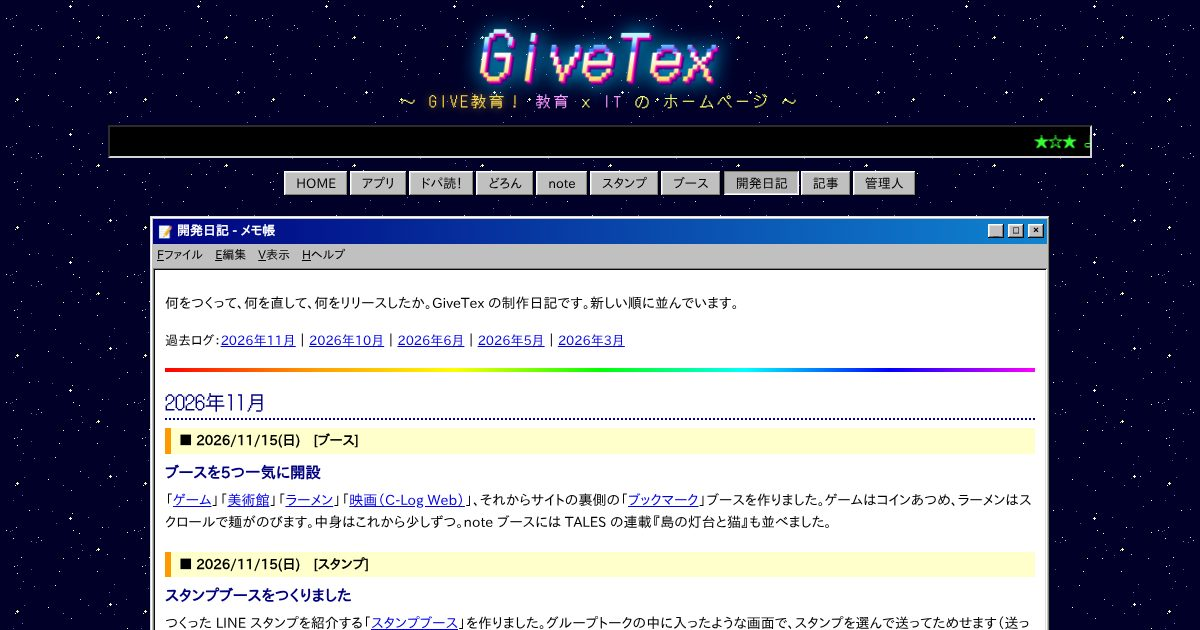
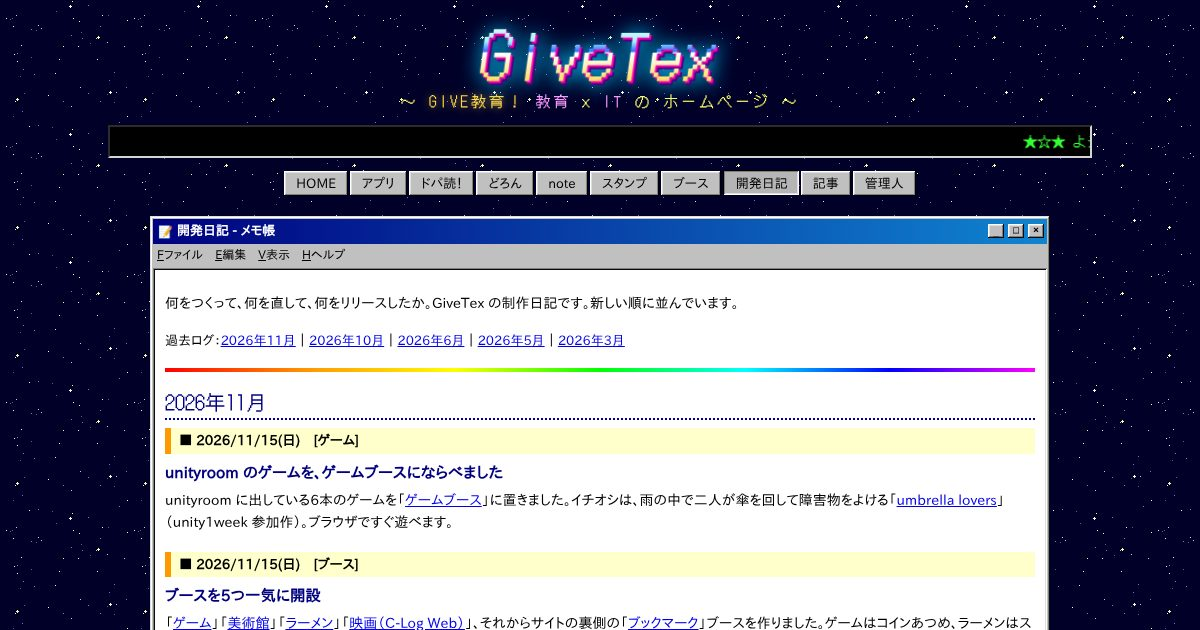
ゲームブースに unityroom の6作品、ホームにイチオシ「umbrella lovers」
- game/game-data.js に unityroom の作品（画像は assets/ext/unityroom に保存）
- pick: true の作品をゲームブースの先頭に大きく、ホームに画像つきで紹介
- localize_images.py が unityroom の画像にも対応
- 日記・What's New に追加

Claude-Session: https://claude.ai/code/session_01W8D3HJ1tr1BMzj6E8dktQx

diff --git a/index.html b/index.html
@@ -62,9 +62,16 @@ document.write(rGreeting());
 <p class="r-small r-center">最終更新日：2026年11月15日</p>
 </div>
 </div><div class="win ">
+<div class="win-t"><span class="ico">🎮</span><span class="ttl">★イチオシ ゲーム★ - umbrella lovers</span><button class="bt" type="button" onclick="return rWin(this)" aria-label="たたむ">_</button><span class="bt" aria-hidden="true">□</span><span class="bt" aria-hidden="true">×</span></div>
+<div class="win-b ">
+<div class="r-pick"><a class="r-pick-img" href="https://unityroom.com/games/umbrella_lovers" target="_blank" rel="noopener"><img loading="lazy" decoding="async" src="/assets/ext/unityroom/590b0dffe3826139.webp" width="240" height="240" alt="umbrella lovers のタイトル画像"></a>
+<div class="r-pick-tx"><p class="r-pick-new"><blink>NEW!</blink> <b>PICK UP GAME</b></p><h3>umbrella lovers</h3><p>雨の日のドキドキ！ 二人で傘を回して、空から降ってくる障害物をよけまくる横スクロール回避アクション。10000点でクリア、20000点で特別ムービー。</p><p class="r-small">unityroom（ブラウザで遊べる・パソコン推奨）／ 2025年 #unity1week</p>
+<p><a class="r-btn r-btn-hot" href="https://unityroom.com/games/umbrella_lovers" target="_blank" rel="noopener">▶ unityroom で遊ぶ</a> <a class="r-btn" href="/game/">ゲームブースへ &gt;&gt;</a></p></div></div>
+</div>
+</div><div class="win ">
 <div class="win-t"><span class="ico">📢</span><span class="ttl">What's New!! - 更新履歴</span><button class="bt" type="button" onclick="return rWin(this)" aria-label="たたむ">_</button><span class="bt" aria-hidden="true">□</span><span class="bt" aria-hidden="true">×</span></div>
 <div class="win-b ">
-<table class="r-tbl" summary="更新履歴"><tr><th>日付</th><th>更新内容</th></tr><tr><td class="date">2026/11/15</td><td>ゲーム・美術館・ラーメン・映画・ブックマークの<a href="/#booths">5ブース</a>を開設 <img loading="lazy" decoding="async" src="/assets/retro/new.gif" width="30" height="13" alt="NEW!"></td></tr><tr><td class="date">2026/11/15</td><td><a href="/stamp/">スタンプブース</a>をつくりました <img loading="lazy" decoding="async" src="/assets/retro/new.gif" width="30" height="13" alt="NEW!"></td></tr><tr><td class="date">2026/11/15</td><td><a href="/note/">note ブース</a>に過去の記事349本を移植しました <img loading="lazy" decoding="async" src="/assets/retro/new.gif" width="30" height="13" alt="NEW!"></td></tr><tr><td class="date">2026/11/15</td><td><a href="/note/">note ブース</a>をはじめました（NingentteWinner の創作） </td></tr><tr><td class="date">2026/11/15</td><td>どろん：Cサークルの新企画「<a href="/doron/#c-circle">十人奇談</a>」の素材を公開 <img loading="lazy" decoding="async" src="/assets/retro/new.gif" width="30" height="13" alt="NEW!"></td></tr><tr><td class="date">2026/11/15</td><td>Kindle本「<a href="/books/">ドパ読！</a>」96冊を書庫に／オカルトブース「<a href="/doron/">どろん</a>」オープン </td></tr><tr><td class="date">2026/11/13</td><td>「教育 × IT」の看板でサイトをリニューアル </td></tr><tr><td class="date">2026/11/06</td><td>「<a href="/apps/aws-saa-dojo/">AWSTUDY SAA 設計道場</a>」のページを公開 </td></tr><tr><td class="date">2026/11/05</td><td>ミニゲーム集「<a href="/apps/minigamer/">MiniGamer</a>」のページを追加 </td></tr></table><p class="r-small">→ これまでの更新は <a href="/diary/">開発日記</a> へ</p>
+<table class="r-tbl" summary="更新履歴"><tr><th>日付</th><th>更新内容</th></tr><tr><td class="date">2026/11/15</td><td><a href="/game/">ゲームブース</a>に unityroom のゲーム6本！ イチオシは「umbrella lovers」 <img loading="lazy" decoding="async" src="/assets/retro/new.gif" width="30" height="13" alt="NEW!"></td></tr><tr><td class="date">2026/11/15</td><td>ゲーム・美術館・ラーメン・映画・ブックマークの<a href="/#booths">5ブース</a>を開設 <img loading="lazy" decoding="async" src="/assets/retro/new.gif" width="30" height="13" alt="NEW!"></td></tr><tr><td class="date">2026/11/15</td><td><a href="/stamp/">スタンプブース</a>をつくりました <img loading="lazy" decoding="async" src="/assets/retro/new.gif" width="30" height="13" alt="NEW!"></td></tr><tr><td class="date">2026/11/15</td><td><a href="/note/">note ブース</a>に過去の記事349本を移植しました <img loading="lazy" decoding="async" src="/assets/retro/new.gif" width="30" height="13" alt="NEW!"></td></tr><tr><td class="date">2026/11/15</td><td><a href="/note/">note ブース</a>をはじめました（NingentteWinner の創作） </td></tr><tr><td class="date">2026/11/15</td><td>どろん：Cサークルの新企画「<a href="/doron/#c-circle">十人奇談</a>」の素材を公開 <img loading="lazy" decoding="async" src="/assets/retro/new.gif" width="30" height="13" alt="NEW!"></td></tr><tr><td class="date">2026/11/15</td><td>Kindle本「<a href="/books/">ドパ読！</a>」96冊を書庫に／オカルトブース「<a href="/doron/">どろん</a>」オープン </td></tr><tr><td class="date">2026/11/13</td><td>「教育 × IT」の看板でサイトをリニューアル </td></tr><tr><td class="date">2026/11/06</td><td>「<a href="/apps/aws-saa-dojo/">AWSTUDY SAA 設計道場</a>」のページを公開 </td></tr><tr><td class="date">2026/11/05</td><td>ミニゲーム集「<a href="/apps/minigamer/">MiniGamer</a>」のページを追加 </td></tr></table><p class="r-small">→ これまでの更新は <a href="/diary/">開発日記</a> へ</p>
 </div>
 </div><div class="win ">
 <div class="win-t"><span class="ico">💾</span><span class="ttl">アプリ置き場 - マイ コンピュータ</span><button class="bt" type="button" onclick="return rWin(this)" aria-label="たたむ">_</button><span class="bt" aria-hidden="true">□</span><span class="bt" aria-hidden="true">×</span></div>
@@ -99,12 +106,17 @@ document.write(rGreeting());
 </div><a name="booths" id="booths"></a><div class="win ">
 <div class="win-t"><span class="ico">🗺</span><span class="ttl">ブース案内 - GiveTex のなかみ</span><button class="bt" type="button" onclick="return rWin(this)" aria-label="たたむ">_</button><span class="bt" aria-hidden="true">□</span><span class="bt" aria-hidden="true">×</span></div>
 <div class="win-b ">
-<table class="r-tbl" summary="ブース一覧"><tr><th></th><th>ブース</th><th>なにがある？</th></tr><tr><td>💾</td><td><a href="/apps/">アプリ</a></td><td>iPhone / Mac の学習アプリ</td></tr><tr><td>📚</td><td><a href="/books/">ドパ読！</a></td><td>Kindle「30秒で読む」シリーズ</td></tr><tr><td>✒</td><td><a href="/note/">note</a></td><td>NingentteWinner の創作・TALES</td></tr><tr><td>💬</td><td><a href="/stamp/">スタンプ</a></td><td>LINE スタンプのトーク</td></tr><tr><td>🎮</td><td><a href="/game/">ゲーム</a></td><td>つくったゲームとゲームのつぶやき</td></tr><tr><td>🖼</td><td><a href="/museum/">美術館</a></td><td>美術館のつぶやきと来館記録</td></tr><tr><td>🍜</td><td><a href="/ramen/">ラーメン</a></td><td>食べたラーメン。麺がのびる</td></tr><tr><td>🎬</td><td><a href="/movie/">映画</a></td><td>C-Log Web・観た映画の感想</td></tr><tr><td>👻</td><td><a href="/doron/">どろん</a></td><td>オカルトブース</td></tr></table><p class="r-small" style="text-align:right;margin:6px 0 0"><a href="/bookmarks/" title="サイトの裏側">裏口 &gt;_</a></p>
+<table class="r-tbl" summary="ブース一覧"><tr><th></th><th>ブース</th><th>なにがある？</th></tr><tr><td>💾</td><td><a href="/apps/">アプリ</a></td><td>iPhone / Mac の学習アプリ</td></tr><tr><td>📚</td><td><a href="/books/">ドパ読！</a></td><td>Kindle「30秒で読む」シリーズ</td></tr><tr><td>✒</td><td><a href="/note/">note</a></td><td>NingentteWinner の創作・TALES</td></tr><tr><td>💬</td><td><a href="/stamp/">スタンプ</a></td><td>LINE スタンプのトーク</td></tr><tr><td>🎮</td><td><a href="/game/">ゲーム</a></td><td>unityroom のゲームとゲームのつぶやき</td></tr><tr><td>🖼</td><td><a href="/museum/">美術館</a></td><td>美術館のつぶやきと来館記録</td></tr><tr><td>🍜</td><td><a href="/ramen/">ラーメン</a></td><td>食べたラーメン。麺がのびる</td></tr><tr><td>🎬</td><td><a href="/movie/">映画</a></td><td>C-Log Web・観た映画の感想</td></tr><tr><td>👻</td><td><a href="/doron/">どろん</a></td><td>オカルトブース</td></tr></table><p class="r-small" style="text-align:right;margin:6px 0 0"><a href="/bookmarks/" title="サイトの裏側">裏口 &gt;_</a></p>
 </div>
 </div><a name="diary" id="diary"></a><div class="win ">
 <div class="win-t"><span class="ico">📝</span><span class="ttl">開発日記 - メモ帳</span><button class="bt" type="button" onclick="return rWin(this)" aria-label="たたむ">_</button><span class="bt" aria-hidden="true">□</span><span class="bt" aria-hidden="true">×</span></div>
 <div class="win-b ">
 <div class="r-diary-entry">
+<div class="d">■ 2026/11/15(日)　[ゲーム]</div>
+<h3>unityroom のゲームを、ゲームブースにならべました</h3>
+<p>unityroom に出している6本のゲームを「<a href="/game/">ゲームブース</a>」に置きました。イチオシは、雨の中で二人が傘を回して障害物をよける「<a href="https://unityroom.com/games/umbrella_lovers" target="_blank" rel="noopener">umbrella lovers</a>」（unity1week 参加作）。ブラウザですぐ遊べます。</p>
+
+</div><div class="r-diary-entry">
 <div class="d">■ 2026/11/15(日)　[ブース]</div>
 <h3>ブースを5つ一気に開設</h3>
 <p>「<a href="/game/">ゲーム</a>」「<a href="/museum/">美術館</a>」「<a href="/ramen/">ラーメン</a>」「<a href="/movie/">映画（C-Log Web）</a>」、それからサイトの裏側の「<a href="/bookmarks/">ブックマーク</a>」ブースを作りました。ゲームはコインあつめ、ラーメンはスクロールで麺がのびます。中身はこれから少しずつ。note ブースには TALES の連載『島の灯台と猫』も並べました。</p>
@@ -113,11 +125,6 @@ document.write(rGreeting());
 <div class="d">■ 2026/11/15(日)　[スタンプ]</div>
 <h3>スタンプブースをつくりました</h3>
 <p>つくった LINE スタンプを紹介する「<a href="/stamp/">スタンプブース</a>」を作りました。グループトークの中に入ったような画面で、スタンプを選んで送ってためせます（送ったものは画面の中だけで、どこにも送信されません）。fumi のLINEスタンプ18セット・248種類を並べました。</p>
-
-</div><div class="r-diary-entry">
-<div class="d">■ 2026/11/15(日)　[note]</div>
-<h3>note の過去記事を349本、まるごと移植</h3>
-<p>2021年から note に書いてきた記事349本を、<a href="/note/">note ブース</a>に移しました。年ごとの目次、タグ、検索から読めます。Java の勉強記録などはコードも読みやすく整えました。有料記事（30本）は無料部分だけをのせて、続きは note へご案内しています。</p>
 
 </div><p class="r-small">→ <a href="/diary/">日記をぜんぶ読む</a></p>
 </div>

diff --git a/game/game-data.js b/game/game-data.js
@@ -3,7 +3,8 @@
   ------------------------------------------------------------
   ■ games（Apple 以外で作ったゲーム）
     { title: "タイトル", platform: "Web" / "unityroom" / "Steam" / "itch.io" など,
-      url: "https://...", desc: "ひとこと紹介", img: "/game/img/xxx.png"（省略可）, year: 2026 }
+      url: "https://...", desc: "ひとこと紹介", img: "/game/img/xxx.png"（省略可）, year: 2026,
+      pick: true（イチオシ。ゲームブースの先頭とホームに大きく出る・省略可） }
 
   ■ posts（つぶやき）新しい順でも古い順でもOK（自動で新しい順に並びます）
     { date: "2026-11-15", kind: "digital" | "boardgame" | "madamis" | "escape" | "event" | "other",
@@ -11,6 +12,61 @@
     kind の意味：digital＝デジタルゲーム／boardgame＝ボドゲ／madamis＝マダミス／escape＝脱出ゲーム／event＝イベント
 */
 window.GAME = {
-  games: [],
-  posts: []
+  "unityroomUrl": "https://unityroom.com/users/qtnhm79e0xd5plfw28c4",
+  "games": [
+    {
+      "title": "umbrella lovers",
+      "platform": "unityroom",
+      "year": 2025,
+      "pick": true,
+      "url": "https://unityroom.com/games/umbrella_lovers",
+      "img": "/assets/ext/unityroom/590b0dffe3826139.webp",
+      "desc": "雨の日のドキドキ！ 二人で傘を回して、空から降ってくる障害物をよけまくる横スクロール回避アクション。10000点でクリア、20000点で特別ムービー。",
+      "tags": [
+        "unity1week",
+        "イチオシ"
+      ]
+    },
+    {
+      "title": "ドアのゲーム",
+      "platform": "unityroom",
+      "year": 2024,
+      "url": "https://unityroom.com/games/dokodemo",
+      "img": "/assets/ext/unityroom/2ccc8bd1fccafe02.webp",
+      "desc": "ドアノブまで、ボールをころがしてみるゲーム。"
+    },
+    {
+      "title": "2Dのシンプルなシューティングゲーム",
+      "platform": "unityroom",
+      "year": 2024,
+      "url": "https://unityroom.com/games/shooting2dgame",
+      "img": "/assets/ext/unityroom/d4d5b3a04133bd55.webp",
+      "desc": "シンプルな2Dシューティング。"
+    },
+    {
+      "title": "ballune paddle",
+      "platform": "unityroom",
+      "year": 2024,
+      "url": "https://unityroom.com/games/ballunepaddle",
+      "img": "/assets/ext/unityroom/aab6f3c9a65f2cc0.webp",
+      "desc": "飛んでくるボールをバーでキャッチ。だんだんバーが小さくなるので気をつけて。"
+    },
+    {
+      "title": "しぶやのかいだん（ふぁーすと）",
+      "platform": "unityroom",
+      "year": 2024,
+      "url": "https://unityroom.com/games/shibuyastairs",
+      "img": "/assets/ext/unityroom/16688335cda5dc94.webp",
+      "desc": "しぶやのかいだん。"
+    },
+    {
+      "title": "くりっくするだけ",
+      "platform": "unityroom",
+      "year": 2024,
+      "url": "https://unityroom.com/games/youtubeclicker",
+      "img": "/assets/ext/unityroom/fa87049497f2ecb5.webp",
+      "desc": "クリックして登録者数をふやせます。"
+    }
+  ],
+  "posts": []
 };

diff --git a/diary/index.html b/diary/index.html
@@ -51,6 +51,11 @@
 <div class="win-t"><span class="ico">📝</span><span class="ttl">開発日記 - メモ帳</span><button class="bt" type="button" onclick="return rWin(this)" aria-label="たたむ">_</button><span class="bt" aria-hidden="true">□</span><span class="bt" aria-hidden="true">×</span></div>
 <div class="win-menu"><span><u>F</u>ファイル</span><span><u>E</u>編集</span><span><u>V</u>表示</span><span><u>H</u>ヘルプ</span></div><div class="win-b ">
 <p>何をつくって、何を直して、何をリリースしたか。GiveTex の制作日記です。新しい順に並んでいます。</p><p class="r-jump">過去ログ：<a href="#m202611">2026年11月</a> ｜ <a href="#m202610">2026年10月</a> ｜ <a href="#m202606">2026年6月</a> ｜ <a href="#m202605">2026年5月</a> ｜ <a href="#m202603">2026年3月</a></p><hr class="r-hr"><a name="m202611" id="m202611"></a><h2 class="r-h">2026年11月</h2><div class="r-diary-entry">
+<div class="d">■ 2026/11/15(日)　[ゲーム]</div>
+<h3>unityroom のゲームを、ゲームブースにならべました</h3>
+<p>unityroom に出している6本のゲームを「<a href="/game/">ゲームブース</a>」に置きました。イチオシは、雨の中で二人が傘を回して障害物をよける「<a href="https://unityroom.com/games/umbrella_lovers" target="_blank" rel="noopener">umbrella lovers</a>」（unity1week 参加作）。ブラウザですぐ遊べます。</p>
+
+</div><div class="r-diary-entry">
 <div class="d">■ 2026/11/15(日)　[ブース]</div>
 <h3>ブースを5つ一気に開設</h3>
 <p>「<a href="/game/">ゲーム</a>」「<a href="/museum/">美術館</a>」「<a href="/ramen/">ラーメン</a>」「<a href="/movie/">映画（C-Log Web）</a>」、それからサイトの裏側の「<a href="/bookmarks/">ブックマーク</a>」ブースを作りました。ゲームはコインあつめ、ラーメンはスクロールで麺がのびます。中身はこれから少しずつ。note ブースには TALES の連載『島の灯台と猫』も並べました。</p>
@@ -172,7 +177,7 @@
 <p>AIチャットボット比較、理科×AI、プログラミング学習の選び方、AI画像生成、ブログ収益化、AI議事録ツール。<a href="/#articles">記事一覧</a></p>
 
 </div>
-</div><div class="win-status"><span>22 件の日記</span><span>最終更新 2026/11/15</span></div>
+</div><div class="win-status"><span>23 件の日記</span><span>最終更新 2026/11/15</span></div>
 </div>
 </div>
 <div class="r-foot" role="contentinfo">

diff --git a/game/game.js b/game/game.js
@@ -54,17 +54,20 @@
   });
 
   /* ---------- カートリッジ ---------- */
-  var carts = $('#carts'), games = G.games || [];
+  var carts = $('#carts'), games = (G.games || []).slice().sort(function (a, b) { return (b.pick ? 1 : 0) - (a.pick ? 1 : 0); });
   if (!games.length) {
     var em = el('div', 'empty'); em.appendChild(el('b', null, 'NO CARTRIDGE')); em.appendChild(el('span', null, 'Apple 以外のゲームを、ここに並べていきます。COMING SOON...'));
     carts.appendChild(em);
   } else games.forEach(function (g, i) {
-    var a = el('a', 'cart'); a.href = g.url || '#'; a.target = '_blank'; a.rel = 'noopener';
+    var a = el('a', 'cart' + (g.pick ? ' pick' : '')); a.href = /^https?:\/\//.test(g.url || '') ? g.url : '#'; a.target = '_blank'; a.rel = 'noopener';
     var lb = el('div', 'label'); if (g.img) { var im = el('img'); im.src = g.img; im.alt = ''; im.loading = 'lazy'; lb.appendChild(im); } else { lb.textContent = g.title; lb.style.background = ['#ffd23f', '#3ef0ff', '#ff4fd8', '#6bff7a'][i % 4]; }
+    if (g.pick) a.appendChild(el('span', 'pick-badge', '★ PICK UP ★'));
     a.appendChild(lb); a.appendChild(el('h3', null, g.title)); if (g.desc) a.appendChild(el('p', null, g.desc));
     a.appendChild(el('span', 'pf', (g.platform || 'GAME') + (g.year ? ' / ' + g.year : ''))); a.appendChild(el('span', 'play', 'PLAY ▶'));
+    a.addEventListener('click', function () { try { if (window.gtag) window.gtag('event', 'outbound_click', { link_url: a.href, place: 'game_cart' }); } catch (e) {} });
     carts.appendChild(a);
   });
+  if (G.unityroomUrl) { var all = el('a', 'ur-all', 'unityroom で ぜんぶ見る ▶'); all.href = G.unityroomUrl; all.target = '_blank'; all.rel = 'noopener'; carts.parentNode.insertBefore(all, carts.nextSibling); }
 
   /* ---------- つぶやき（RPGのウインドウ・文字送り） ---------- */
   var box = $('#msgs'), posts = (G.posts || []).slice().sort(function (a, b) { return String(b.date).localeCompare(String(a.date)); }), cur = '';

diff --git a/game/game.css b/game/game.css
@@ -71,3 +71,17 @@ body::before{content:"";position:fixed;inset:0;pointer-events:none;z-index:60;ba
 .toast b{font:10px/1.6 var(--px);color:var(--y);display:block}
 .foot{border-top:3px solid #3b2a66;color:var(--sub);text-align:center;padding:22px 16px 34px;font-size:14px}
 .foot .credit{font:10px/2 var(--px);color:var(--m)}
+/* イチオシ（大きいカートリッジ） */
+.cart.pick{grid-column:1/-1;display:grid;grid-template-columns:minmax(180px,300px) 1fr;grid-template-rows:auto auto auto 1fr auto;column-gap:22px;background:#33224a;box-shadow:0 6px 0 #1a1026,0 0 0 3px var(--y) inset}
+.cart.pick::before{background:#33224a}
+.cart.pick .label{grid-row:1/-1;aspect-ratio:1;background:#39ff3a}
+.cart.pick .label img{image-rendering:pixelated}
+.cart.pick h3{font-size:24px;margin-top:6px}
+.cart.pick p{font-size:15px}
+.pick-badge{grid-column:2;font:12px/1 var(--px);color:var(--y);animation:pk 1s steps(1) infinite}
+@keyframes pk{50%{opacity:.35}}
+@media (prefers-reduced-motion:reduce){.pick-badge{animation:none}}
+@media(max-width:560px){.cart.pick{grid-template-columns:1fr}.cart.pick .label{grid-row:auto;max-width:260px;margin:8px auto 0;width:100%}.pick-badge{grid-column:1;order:-1}}
+.ur-all{display:inline-block;margin-top:18px;font:12px/1 var(--px);color:var(--g);text-decoration:none;border:2px solid var(--g);padding:10px 14px;border-radius:4px}
+.ur-all:hover{background:rgba(107,255,122,.12)}
+.cart .pf{display:block;margin:0 0 12px;line-height:1.4}

diff --git a/assets/retro.css b/assets/retro.css
@@ -323,3 +323,13 @@ table.info th { width: 8.5em; white-space: nowrap; }
 .ct-msg.ng{border-color:#c00;background:#fff0f0}
 .ct-msg a{display:inline-block;margin-top:4px}
 .r-warn{border:2px solid #c00;background:#fff0f0;color:#000;padding:8px}
+/* ホームのイチオシゲーム */
+.r-pick{display:flex;gap:16px;align-items:center;flex-wrap:wrap}
+.r-pick-img{flex:none;display:block;border:3px outset #c0c0c0;background:#39ff3a;line-height:0}
+.r-pick-img img{width:220px;height:220px;image-rendering:pixelated;display:block}
+.r-pick-tx{flex:1 1 260px;min-width:0}
+.r-pick-tx h3{margin:2px 0 6px;font-size:26px;color:#6a2cff;text-shadow:2px 2px 0 #ff2d8a}
+.r-pick-tx p{margin:0 0 8px}
+.r-pick-new{color:#d10056;font-size:13px}
+.r-btn-hot{background:#ff2d8a!important;color:#fff!important;font-weight:bold}
+@media(max-width:520px){.r-pick{justify-content:center}.r-pick-img img{width:180px;height:180px}}

diff --git a/tools/localize_images.py b/tools/localize_images.py
@@ -11,8 +11,8 @@ from PIL import Image
 
 R = pathlib.Path(sys.argv[1] if len(sys.argv) > 1 else pathlib.Path(__file__).resolve().parent.parent)
 MAP = R / 'tools' / 'ext_images.json'
-HOSTS = {'assets.st-note.com': ('note', 960), 'm.media-amazon.com': ('amazon', 400), 'stickershop.line-scdn.net': ('line', 480)}
-URL = re.compile(r'https://(assets\.st-note\.com|m\.media-amazon\.com|stickershop\.line-scdn\.net)/[^"\'\s)<>\\]+')
+HOSTS = {'assets.st-note.com': ('note', 960), 'm.media-amazon.com': ('amazon', 400), 'stickershop.line-scdn.net': ('line', 480), 'os-worker.unityroom.com': ('unityroom', 600)}
+URL = re.compile(r'https://(assets\.st-note\.com|m\.media-amazon\.com|stickershop\.line-scdn\.net|os-worker\.unityroom\.com)/[^"\'\s)<>\\]+')
 SKIP = {'.git', 'node_modules', 'api', 'assets/ext', '.note-cache'}
 
 def files():
